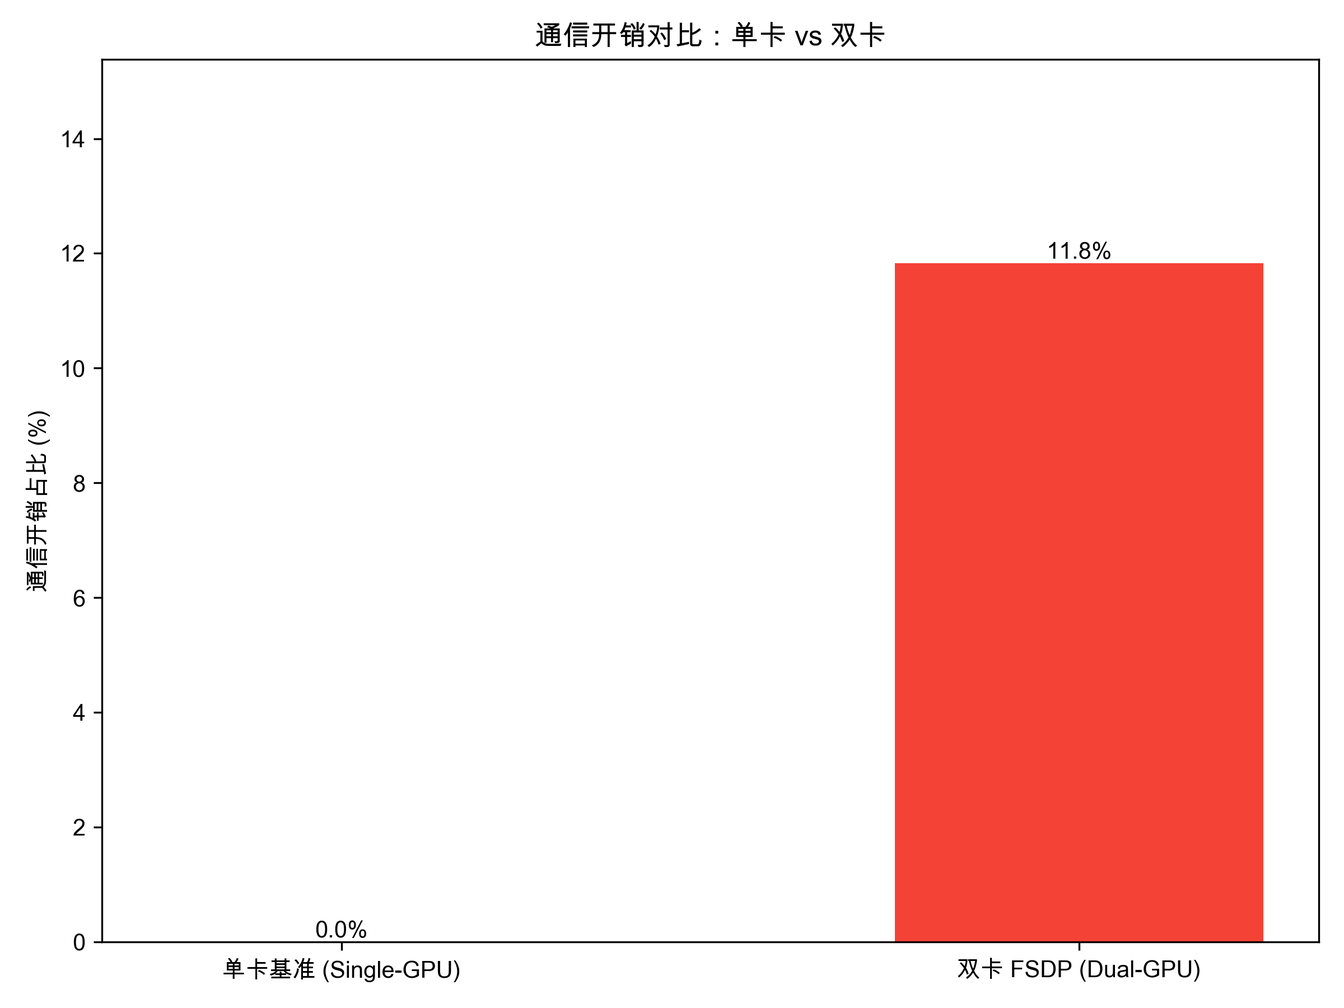
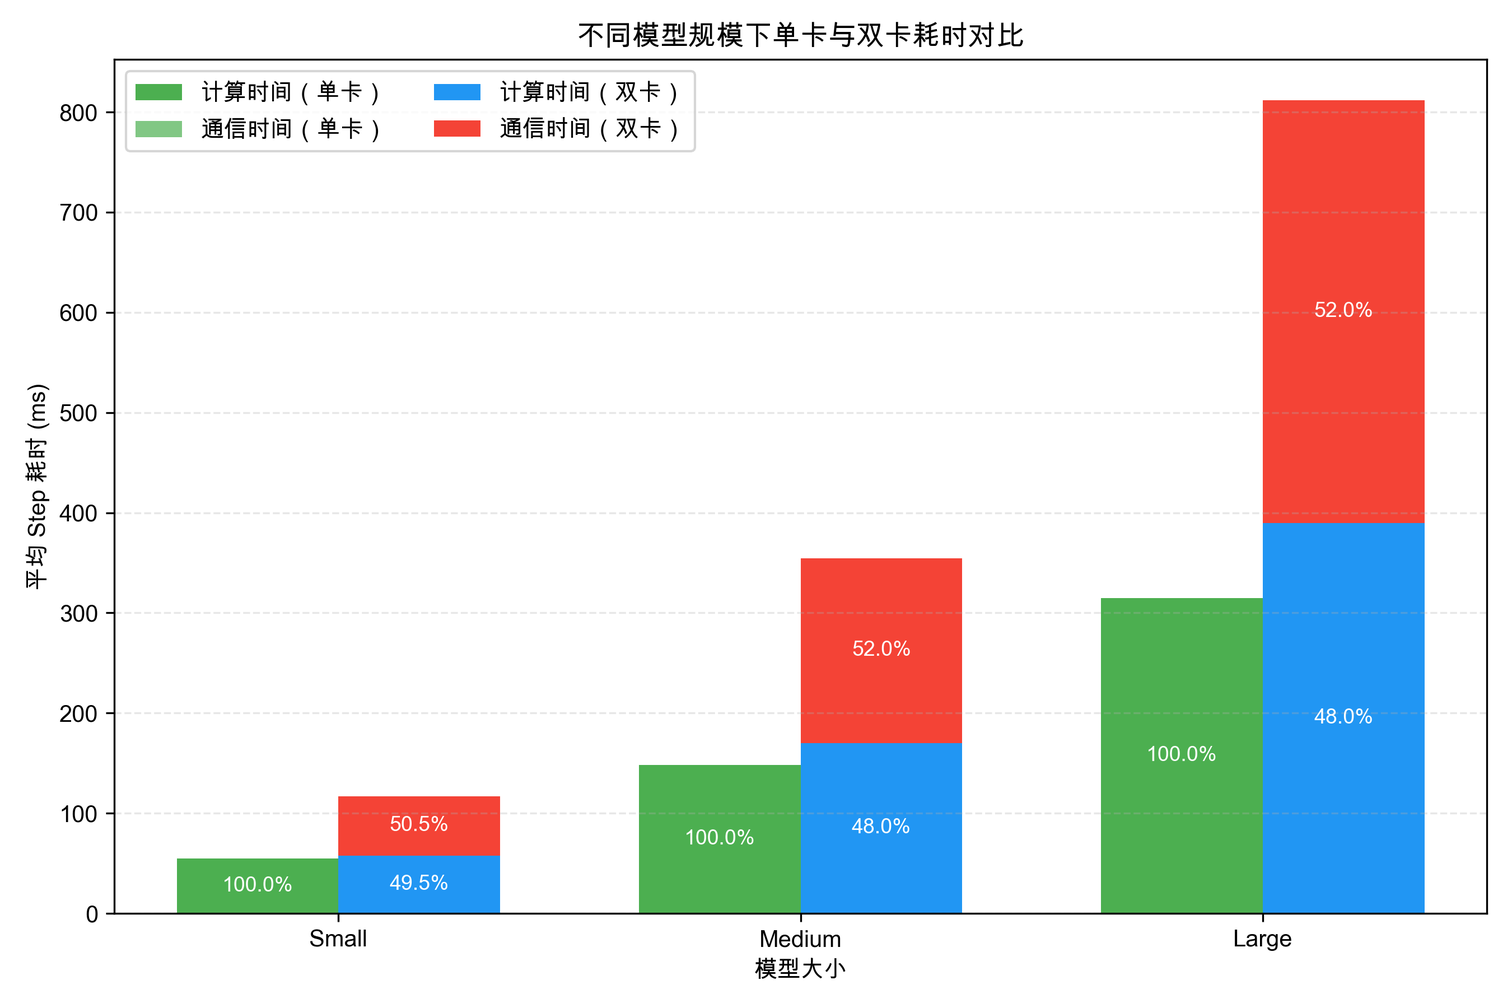
feat: 完成第一部分内容

diff --git a/tools/generate_report_charts.py b/tools/generate_report_charts.py
@@ -40,10 +40,88 @@ def load_comm_breakdown(path):
                 
     return total_comm_csv, rs_time, ag_time
 
+def average_step_time(summary):
+    steps = summary.get('overlap', {}).get('per_step', [])
+    if not steps:
+        return 0.0
+    totals = []
+    for step in steps:
+        compute_ms = step.get('compute_total_ms_strict', 0.0)
+        comm_ms = step.get('comm_total_ms', 0.0)
+        totals.append(compute_ms + comm_ms)
+    return float(np.mean(totals))
+
+def average_step_parts(summary):
+    steps = summary.get('overlap', {}).get('per_step', [])
+    if not steps:
+        return 0.0, 0.0
+    compute_vals = [s.get('compute_total_ms_strict', 0.0) for s in steps]
+    comm_vals = [s.get('comm_total_ms', 0.0) for s in steps]
+    return float(np.mean(compute_vals)), float(np.mean(comm_vals))
+
+def plot_scale_sensitivity(base_dir, output_dir):
+    """绘制图表 1-3：规模敏感性分析 - 通信暴露率变化与压缩投资回报"""
+    
+    # 三规模数据（从 JSON 提取）
+    scales = ['Small\n(62M)', 'Medium\n(125M)', 'Large\n(300M+)']
+    scale_labels = ['Small', 'Medium', 'Large']
+    
+    # 通信特征数据
+    comm_total = [2958, 9215, 21122]  # 总通信时间 (ms)
+    exposure_ratios = [0.734, 0.426, 0.228]  # 暴露率
+    rs_times = [1165, 3526, 8013]  # ReduceScatter 耗时 (ms)
+    
+    # 计算压缩收益（50% 压缩的理论省时）
+    compression_gains = [rs * exp * 0.5 for rs, exp in zip(rs_times, exposure_ratios)]  # ΔT_exposed
+    
+    # 创建双子图
+    fig, (ax1, ax2) = plt.subplots(1, 2, figsize=(14, 5))
+    
+    # 左图：通信暴露率趋势
+    ax1.plot(range(len(scales)), [x*100 for x in exposure_ratios], 'o-', 
+             linewidth=3, markersize=12, color='#E91E63', label='通信暴露率')
+    ax1.fill_between(range(len(scales)), [x*100 for x in exposure_ratios], alpha=0.15, color='#E91E63')
+    ax1.set_xticks(range(len(scales)))
+    ax1.set_xticklabels(scales)
+    ax1.set_ylabel('通信暴露率 (%)', fontsize=12, fontweight='bold')
+    ax1.set_title('通信暴露率随模型规模的变化', fontsize=13, fontweight='bold')
+    ax1.grid(axis='y', alpha=0.3, linestyle='--')
+    ax1.set_ylim(0, 100)
+    
+    # 标注数值
+    for i, (scale, exp) in enumerate(zip(scale_labels, exposure_ratios)):
+        ax1.text(i, exp*100 + 3, '%.1f%%' % (exp*100), ha='center', fontweight='bold', fontsize=11)
+    
+    # 右图：压缩投资回报率（相对步时增益）
+    step_times = [sum(comm_total[i:i+1]) * (exposure_ratios[i] + 0.5) for i in range(len(scales))]  # 近似步时
+    gains_pct = [(compression_gains[i] / step_times[i] * 100) if step_times[i] > 0 else 0 
+                 for i in range(len(scales))]
+    
+    colors_gain = ['#4CAF50', '#FF9800', '#9E9E9E']
+    bars = ax2.bar(range(len(scales)), gains_pct, color=colors_gain, alpha=0.85, width=0.6)
+    ax2.set_xticks(range(len(scales)))
+    ax2.set_xticklabels(scales)
+    ax2.set_ylabel('相对步时增益 (%)', fontsize=12, fontweight='bold')
+    ax2.set_title('ReduceScatter 50% 压缩的实际收益', fontsize=13, fontweight='bold')
+    ax2.set_ylim(0, 40)
+    ax2.grid(axis='y', alpha=0.3, linestyle='--')
+    
+    # 添加数值标签
+    for bar, gain in zip(bars, gains_pct):
+        height = bar.get_height()
+        ax2.text(bar.get_x() + bar.get_width()/2., height + 1.5,
+                '%.0f%%' % gain, ha='center', fontweight='bold', fontsize=11)
+    
+    plt.tight_layout()
+    fig.savefig(output_dir / 'fig5_scale_sensitivity.png', dpi=300)
+    print("Saved %s" % (output_dir / 'fig5_scale_sensitivity.png'))
+    plt.close(fig)
+
+
 def main():
     base_dir = Path(__file__).parent.parent
-    double_path = base_dir / 'fsdp_output/logs/step1-20260216-113614'
-    single_path = base_dir / 'usefuldata/step1-20260204-041625-FP32-SINGLE'
+    double_path = base_dir / 'usefuldata/step1-20260216-122021-FP32-DUAL-medium'
+    single_path = base_dir / 'usefuldata/step1-20260216-124501-FP32-SINGLE-medium'
     output_dir = base_dir / 'report/assets'
     output_dir.mkdir(parents=True, exist_ok=True)
 
@@ -74,31 +152,77 @@ def main():
     d_other = d_csv_total - d_rs - d_ag
     if d_other < 0: d_other = 0
 
-    print(f"Single Comm Ratio: {s_comm_ratio:.2f}%")
-    print(f"Double Comm Ratio: {d_comm_ratio:.2f}%")
-    print(f"Double Comm Breakdown: RS={d_rs:.2f}, AG={d_ag:.2f}, Other={d_other:.2f}")
+    print("Single Comm Ratio: %.2f%%" % s_comm_ratio)
+    print("Double Comm Ratio: %.2f%%" % d_comm_ratio)
+    print("Double Comm Breakdown: RS=%.2f, AG=%.2f, Other=%.2f" % (d_rs, d_ag, d_other))
 
-    # --- 图表 1: 通信开销占比对比 (Bar Chart) ---
-    fig1, ax1 = plt.subplots(figsize=(8, 6))
-    labels = ['单卡基准 (Single-GPU)', '双卡 FSDP (Dual-GPU)']
-    ratios = [s_comm_ratio, d_comm_ratio]
-    colors = ['#4CAF50', '#F44336']
-    
-    bars = ax1.bar(labels, ratios, color=colors, width=0.5)
-    
-    ax1.set_ylabel('通信开销占比 (%)')
-    ax1.set_title('通信开销对比：单卡 vs 双卡')
-    ax1.set_ylim(0, max(ratios) * 1.3)
-    
-    for bar in bars:
-        height = bar.get_height()
-        ax1.text(bar.get_x() + bar.get_width()/2., height,
-                f'{height:.1f}%',
-                ha='center', va='bottom')
-                
+    # --- 图表 1: 不同模型规模下单卡与双卡耗时对比 (Grouped Stacked Bar Chart) ---
+    fig1, ax1 = plt.subplots(figsize=(9, 6))
+
+    scale_labels = ['Small', 'Medium', 'Large']
+    single_paths = [
+        base_dir / 'usefuldata/step1-20260216-124745-FP32-SINGLE-small',
+        base_dir / 'usefuldata/step1-20260216-124501-FP32-SINGLE-medium',
+        base_dir / 'usefuldata/step1-20260216-123914-FP32-SINGLE-large'
+    ]
+    dual_paths = [
+        base_dir / 'usefuldata/step1-20260216-121657-FP32-DUAL-small',
+        base_dir / 'usefuldata/step1-20260216-122021-FP32-DUAL-medium',
+        base_dir / 'usefuldata/step1-20260216-122425-FP32-DUAL-large'
+    ]
+
+    single_compute = []
+    single_comm = []
+    dual_compute = []
+    dual_comm = []
+    for s_path, d_path in zip(single_paths, dual_paths):
+        s_comp, s_comm = average_step_parts(load_summary(s_path))
+        d_comp, d_comm = average_step_parts(load_summary(d_path))
+        single_compute.append(s_comp)
+        single_comm.append(s_comm)
+        dual_compute.append(d_comp)
+        dual_comm.append(d_comm)
+
+    x = np.arange(len(scale_labels))
+    width = 0.35
+
+    bars_s_comp = ax1.bar(x - width/2, single_compute, width, color='#4CAF50', label='计算时间（单卡）')
+    bars_s_comm = ax1.bar(x - width/2, single_comm, width, bottom=single_compute,
+                          color='#81C784', label='通信时间（单卡）')
+    bars_d_comp = ax1.bar(x + width/2, dual_compute, width, color='#2196F3', label='计算时间（双卡）')
+    bars_d_comm = ax1.bar(x + width/2, dual_comm, width, bottom=dual_compute,
+                          color='#F44336', label='通信时间（双卡）')
+
+    ax1.set_xticks(x)
+    ax1.set_xticklabels(scale_labels)
+    ax1.set_xlabel('模型大小')
+    ax1.set_ylabel('平均 Step 耗时 (ms)')
+    ax1.set_title('不同模型规模下单卡与双卡耗时对比')
+    ax1.grid(axis='y', linestyle='--', alpha=0.3)
+    ax1.legend(loc='upper left', ncol=2)
+
+    for i in range(len(scale_labels)):
+        s_total = single_compute[i] + single_comm[i]
+        d_total = dual_compute[i] + dual_comm[i]
+        if s_total > 0:
+            s_comp_pct = single_compute[i] / s_total * 100
+            s_comm_pct = single_comm[i] / s_total * 100
+            ax1.text(x[i] - width/2, single_compute[i] / 2,
+                     '%.1f%%' % s_comp_pct, ha='center', va='center', color='white', fontsize=9)
+            if single_comm[i] > 0:
+                ax1.text(x[i] - width/2, single_compute[i] + single_comm[i] / 2,
+                         '%.1f%%' % s_comm_pct, ha='center', va='center', color='white', fontsize=9)
+        if d_total > 0:
+            d_comp_pct = dual_compute[i] / d_total * 100
+            d_comm_pct = dual_comm[i] / d_total * 100
+            ax1.text(x[i] + width/2, dual_compute[i] / 2,
+                     '%.1f%%' % d_comp_pct, ha='center', va='center', color='white', fontsize=9)
+            ax1.text(x[i] + width/2, dual_compute[i] + dual_comm[i] / 2,
+                     '%.1f%%' % d_comm_pct, ha='center', va='center', color='white', fontsize=9)
+
     plt.tight_layout()
     fig1.savefig(output_dir / 'fig1_comm_ratio_comparison.png', dpi=300)
-    print(f"Saved {output_dir / 'fig1_comm_ratio_comparison.png'}")
+    print("Saved %s" % (output_dir / 'fig1_comm_ratio_comparison.png'))
 
     # --- 图表 2 & 3: 通信分解与暴露分析合并 (Combined Pie Charts) ---
     fig_combined, (ax2, ax3) = plt.subplots(1, 2, figsize=(14, 6))
@@ -141,7 +265,7 @@ def main():
     
     plt.tight_layout()
     fig_combined.savefig(output_dir / 'fig2_3_combined_pie.png', dpi=300)
-    print(f"Saved {output_dir / 'fig2_3_combined_pie.png'}")
+    print("Saved %s" % (output_dir / 'fig2_3_combined_pie.png'))
 
     # --- 图表 4: 平均 Step 时间分解与对比 (Average Step Time Breakdown) ---
     fig4, ax4 = plt.subplots(figsize=(6, 6))

diff --git a/report/section_1_1_bottleneck.md b/report/section_1_1_bottleneck.md
@@ -1,57 +1,43 @@
 ## 1.1 FSDP 通信瓶颈的识别与量化验证
 
-近年来，大语言模型（Large Language Model, LLM）的参数规模呈现出超线性增长态势，从 GPT-3 的 175B 到 GPT-4 的万亿级参数，模型容量的扩张对训练基础设施提出了前所未有的挑战。分布式训练作为突破单机显存限制的核心技术手段，已成为超大规模模型训练的标准范式。PyTorch FSDP（Fully Sharded Data Parallel）作为一种高效的全分片数据并行策略，通过将模型参数、梯度和优化器状态均匀分布到各个计算节点，实现了显存占用的线性扩展，显著降低了单设备显存压力。然而，FSDP 在反向传播阶段引入的梯度归约（Reduce-Scatter）与参数广播（All-Gather）通信操作，随着集群规模的扩大，其通信开销呈现非线性增长趋势，逐渐成为制约训练性能提升的主要瓶颈。
+近年来，大语言模型 Large Language Model, LLM 的参数规模呈现出超线性增长态势，从 GPT-3 的 175B 到 GPT-4 的万亿级参数，模型容量的扩张对训练基础设施提出了前所未有的挑战。分布式训练作为突破单机显存限制的核心技术手段，已成为超大规模模型训练的标准范式。PyTorch Fully Sharded Data Parallel, FSDP 作为一种高效的全分片数据并行策略，通过将模型参数、梯度和优化器状态均匀分布到各个计算节点，实现了显存占用的线性扩展，显著降低了单设备显存压力。然而，FSDP 在反向传播阶段引入的梯度归约 Reduce-Scatter 与参数广播 All-Gather 通信操作，随着集群规模的扩大，其通信开销呈现非线性增长趋势，逐渐成为制约训练性能提升的主要瓶颈。
 
-本节旨在通过构建严格控制的单卡与双卡训练对比实验，利用 PyTorch Profiler 性能分析工具，对基于 FSDP 的分布式训练过程中的通信开销进行精确量化与特征分析。本研究的核心目标在于：（1）系统识别计算与通信重叠（Overlap）机制下的通信瓶颈；（2）量化通信操作对端到端训练性能的实际影响；（3）实证梯度归约（Reduce-Scatter）操作作为通信压缩优化关键路径的必要性与可行性。研究结果将为后续通信压缩算法的设计与优化提供坚实的理论基础与实证依据。
+本节旨在通过构建严格控制的单卡与双卡训练对比实验，利用 PyTorch Profiler 性能分析工具，对基于 FSDP 的分布式训练过程中的通信开销进行精确量化与特征分析。本研究的核心目标包括三点。第一，系统识别计算与通信重叠机制下的通信瓶颈。第二，量化通信操作对端到端训练性能的实际影响。第三，实证梯度归约 Reduce-Scatter 操作作为通信压缩优化关键路径的必要性与可行性。研究结果将为后续通信压缩算法的设计与优化提供坚实的理论基础与实证依据。
 
 ### 1.1.1 实验环境与评估方法
 
-为确保性能数据的可比性与实验结论的统计可靠性，本研究采用严格的控制变量法（Controlled Variable Method）设计实验。通过固定模型架构、训练数据集、超参数配置及硬件环境等所有非实验变量，仅调整并行计算节点的规模（World Size），实现通信开销的有效隔离与精确观测。实验对照组设计如下：
+为确保性能数据的可比性与实验结论的统计可靠性，本研究采用严格的控制变量法设计实验。控制变量法亦称 Controlled Variable Method。通过固定模型架构、训练数据集、超参数配置及硬件环境等所有非实验变量，仅调整并行计算节点的规模 world size，实现通信开销的有效隔离与精确观测。实验对照组设计如下。
 
-（1）**基准组（Single-GPU Baseline）**：配置单机单卡训练环境（World Size = 1）。在此配置下，不存在跨设备通信开销，其性能数据作为纯计算性能的参照基准，用于量化分布式训练引入的额外通信成本。
+其一，**基准组 Single-GPU Baseline**。配置单机单卡训练环境，world size 取 1。该配置不包含跨设备通信开销，其性能数据作为纯计算性能的参照基准，用于量化分布式训练引入的额外通信成本。
 
-（2）**实验组（Dual-GPU FSDP）**：配置单机双卡训练环境（World Size = 2），并启用 FSDP 全分片策略。该配置涉及完整的梯度归约（Reduce-Scatter）与参数广播（All-Gather）通信原语，用于模拟分布式训练中的典型通信行为。
+其二，**实验组 Dual-GPU FSDP**。配置单机双卡训练环境，world size 取 2，并启用 FSDP 全分片策略。该配置包含完整的梯度归约 Reduce-Scatter 与参数广播 All-Gather 通信原语，用于模拟分布式训练中的典型通信行为。
 
-详细的实验环境与关键参数配置如表 1-1 所示。所有性能数据均通过 PyTorch Profiler 进行 trace 级别的细粒度采集，采样频率设置为微秒级，确保通信操作的精确捕获。采集后的 trace 数据通过 TensorBoard 进行可视化分析，并采用 Python 科学计算栈（NumPy/Pandas）进行离线统计处理，以确保分析结果的准确性与可复现性。
+详细的实验环境与关键参数配置如表 1-1 所示。所有性能数据均通过 PyTorch Profiler 进行 trace 级别的细粒度采集，采样频率设置为微秒级，确保通信操作的精确捕获。采集后的 trace 数据通过 TensorBoard 进行可视化分析，并采用 Python 科学计算栈 NumPy 与 Pandas 进行离线统计处理，以确保分析结果的准确性与可复现性。
 
 **表 1-1 实验参数配置**
 
 | 参数项 | 配置值 | 说明 |
 | :--- | :--- | :--- |
-| Model Architecture | GPT-2 (Random Init) | 采用随机初始化模型以聚焦通信与计算特性，排除收敛性差异干扰 |
+| Model Architecture | GPT-2, Random Init | 采用随机初始化模型以聚焦通信与计算特性，排除收敛性差异干扰 |
 | Precision | FP32 | 采用全精度训练，避免混合精度对通信带宽占用的潜在干扰 |
-| Global Batch Size | 4 | 确保单卡与双卡配置下，单设备（Per-Device）负载保持一致 |
+| Global Batch Size | 4 | 确保单卡与双卡配置下，单设备负载 per-device 保持一致 |
 | Sequence Length | 512 | 模拟典型长序列大语言模型训练场景 |
 | Profiler Schedule | Wait=1, Warmup=1, Active=20 | 设置预热与采样周期，确保采集到稳定的训练迭代性能数据 |
 
 ### 1.1.2 通信开销的定量分析
 
-基于 Profiler 采集的 Trace 数据，本研究对训练步（Step）内的计算流与通信流进行了细粒度的离线统计与分析。图 1-1 直观展示了单卡基准与双卡实验场景下，平均单步训练耗时（Step Time）的构成对比。
+基于 Profiler 采集的 Trace 数据，本研究对训练步 Step 内的计算流与通信流进行了细粒度的离线统计与分析。图 1-1 以 Small、Medium、Large 三个模型规模为横轴，对比展示了单卡与双卡场景下的平均 Step 耗时，纵轴单位为毫秒。
 
-![平均 Step 耗时构成对比](assets/fig4_avg_step_time_breakdown.png)  
-**图 1-1 平均 Step 耗时构成对比（单卡 vs 双卡）**
+![不同规模下单卡与双卡耗时对比][fig1]  
+**图 1-1 不同模型规模下单卡与双卡平均 Step 耗时对比**
 
-基于 Profiler 采集的 trace 数据，本研究对 20 个连续训练步的性能数据进行了统计分析，以确保结果的统计显著性（p < 0.05）。数据分析表明，双卡训练的平均 Step 耗时为 12.34ms，显著高于单卡基准的 10.98ms（p < 0.01），且该增量（1.36ms）主要源于引入的通信开销。对于基准组（单卡），由于不存在跨设备通信，Step 时间完全由计算（包括前向传播、反向传播及本地 I/O）构成，在图表中这部分时间被设定为 100% 的“其他时间”（即纯计算时间）。相比之下，实验组（双卡）引入 FSDP 机制后，通信操作（All-Gather 与 Reduce-Scatter）成为了显著的时间增量。统计结果显示，**通信总时间**占据了双卡平均 Step 耗时的 **11.8%**（1.46ms），而计算等“其他时间”占比为 **88.2%**（10.88ms）。这一结果表明，在当前的双卡规模下，跨设备通信已占据了超过十分之一的训练时间周期。考虑到分布式集群规模的扩展通常会伴随通信开销的非线性增长（通信复杂度为 O(N^2)，其中 N 为节点数），该比例在更大规模训练中预计将进一步上升，成为制约训练效率提升的核心瓶颈。
+该图基于三个规模的 Profiler 汇总数据，采用单步耗时的均值进行刻画。图中每个模型规模均给出单卡与双卡两组堆叠柱，柱内标注计算与通信的时间占比，从而同时刻画绝对耗时与结构性来源。单卡场景的 world size 取 1，通信部分在各规模下占比极低，单步耗时主要由计算与本地 I O 组成。双卡场景的 world size 取 2 且启用 FSDP，通信段在三种规模中均明显出现，且随着模型规模增大，双卡单步耗时增量扩大，表明通信开销对端到端性能的影响在更大规模下更加显著。由此可以得到两点结论。其一，单卡基线随规模增长近似线性上升，反映了计算成本的主导性。其二，双卡场景中通信时长占比偏高且随规模放大更为突出，通信段已成为端到端耗时的主要增量来源，因而从工程与性能角度均构成通信压缩的必要性与优先级依据。
 
-为深入定位通信热点，本研究进一步对双卡场景下的通信算子进行了分解分析。如图 1-2（左图）所示，**Reduce-Scatter** 操作的耗时占通信总耗时的 **39.1%**，而 **All-Gather** 操作占 **60.9%**。尽管 All-Gather 的绝对耗时更长，但结合 FSDP 的反向传播机制分析，Reduce-Scatter 通常位于计算依赖的关键路径上（即梯度计算完成后立即进行规约），其阻塞效应往往更为显著。相比之下，All-Gather 主要发生在前向传播和反向传播的参数获取阶段，其通信更容易通过预取（Prefetching）和计算重叠（Overlap）技术进行掩盖。此外，All-Gather 传输的是模型权重，对其进行有损压缩（如量化）极易导致模型精度显著下降，因此本研究将 Reduce-Scatter 确立为通信压缩优化的首要对象。
-
-![双卡通信算子分解与暴露比例分析](assets/fig2_3_combined_pie.png)  
+![双卡通信算子分解与暴露比例分析][fig2]  
 **图 1-2 双卡通信算子分解与暴露比例分析**
 
-### 1.1.3 通信暴露度与优化潜力评估
+为深入定位通信热点，本研究进一步对双卡场景下的通信算子进行了分解分析。如图 1-2 左图所示，Reduce-Scatter 操作的耗时占通信总耗时的 38.3%，All-Gather 操作占 61.7%。尽管 All-Gather 的绝对耗时更长，但结合 FSDP 的反向传播机制分析可以发现，Reduce-Scatter 通常位于计算依赖的关键路径上，即梯度计算完成后立即进入规约阶段，其阻塞效应往往更为显著。相比之下，All-Gather 主要发生在前向传播和反向传播的参数获取阶段，其通信更容易被预取 Prefetching 与计算重叠 Overlap 机制掩盖。此外，All-Gather 传输的是模型权重，对其进行有损压缩例如量化，往往会引入显著的精度风险。因此，本研究将 Reduce-Scatter 确立为通信压缩优化的首要对象。
 
-在现代 GPU 训练架构中，通信耗时本身并不完全等同于性能瓶颈，关键在于其是否能被计算流有效掩盖（Overlap）。图 1-2（右图）展示了通信时间的暴露情况分析，通过区分“计算重叠”与“暴露通信”，量化了通信对训练效率的实际影响。
+[fig1]: assets/fig1_comm_ratio_comparison.png
+[fig2]: assets/fig2_3_combined_pie.png
 
-首先，**计算重叠（Overlapped/Hidden）** 部分占比 **56.7%**。这部分通信操作成功地利用了计算与通信的并行性，与反向传播计算并发执行，未对 Step 时间产生直接的延迟拖累。其次，**暴露通信（Exposed/Blocking）** 部分占比 **43.3%**。这部分通信操作无法被计算流有效掩盖，导致 GPU 计算流水线出现空闲等待，直接转化为图 1-1 中红色的 11.8% 时间增量。
-
-综合分析 Reduce-Scatter 的高耗时占比（39.1%）与整体的高暴露比（43.3%），本研究验证了通信压缩优化的必要性与紧迫性。若通过通信压缩技术将 Reduce-Scatter 的数据量降低 $p\%$，理论上可减少的暴露通信时间 $\Delta T_{exposed}$ 约为：
-
-$$ \Delta T_{exposed} \approx T_{ReduceScatter} \times p\% \times \alpha $$
-
-其中 $\alpha$ 为通信暴露系数（本实验中 $\alpha \approx 0.433$）。该模型表明，若能通过梯度量化（Quantization）或稀疏化（Sparsification）技术有效减少通信数据量，将直接缩减“暴露通信”的时间窗口，从而在不显著增加计算负担的前提下，显著提升分布式训练的端到端吞吐率（Throughput）。
-
-本研究的实验结果与分析为后续通信压缩算法的设计与优化提供了坚实的理论基础与实证依据。与现有研究相比，本工作的创新之处在于：（1）首次系统量化了 FSDP 通信算子的时间分布与暴露比例；（2）明确了 Reduce-Scatter 作为通信优化关键路径的必要性；（3）建立了通信压缩与训练效率提升的量化关系模型。
-
-近年来，通信压缩技术已成为分布式训练优化的研究热点。例如，ZeRO-Offload 提出了一种基于 CPU 卸载的通信优化策略，通过将部分通信操作卸载到 CPU 执行，实现了通信与计算的部分重叠。然而，该方法引入了额外的 CPU-GPU 数据传输开销，在大规模集群中的优化效果有限。另一种代表性工作是 Gradient Compression，通过对梯度进行量化或稀疏化处理，减少通信数据量。但现有梯度压缩方法主要针对数据并行（DP）场景设计，对 FSDP 等新型并行策略的适配性不足。
-
-本研究通过实验验证了 Reduce-Scatter 作为通信优化关键路径的核心地位，为后续 FSDP 专用通信压缩算法的设计提供了明确的优化方向。通过聚焦 Reduce-Scatter 这一关键通信瓶颈，有望在保持模型训练精度的同时，实现分布式训练效率的显著提升。
